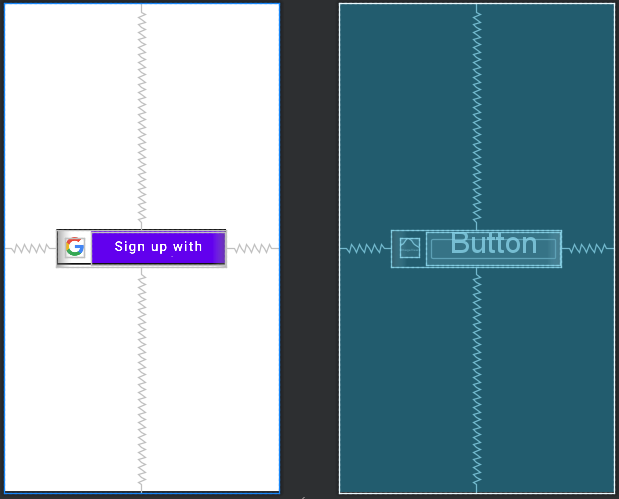
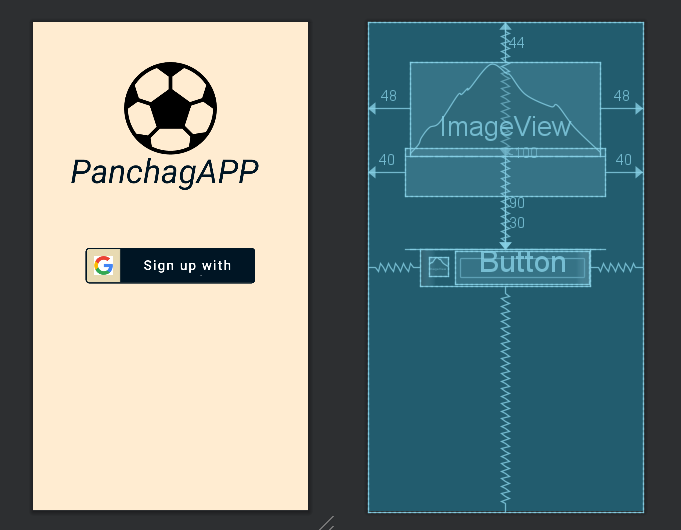
Cambiadas imagenes login e inscribir evento

diff --git a/PachangAPP/app/src/main/java/com/example/panchagapp/ui/signin/SignIn.kt b/PachangAPP/app/src/main/java/com/example/panchagapp/ui/signin/SignIn.kt
@@ -1,0 +1,12 @@
+package com.example.panchagapp.ui.signin
+
+import androidx.appcompat.app.AppCompatActivity
+import android.os.Bundle
+import com.example.panchagapp.R
+
+class SignIn : AppCompatActivity() {
+    override fun onCreate(savedInstanceState: Bundle?) {
+        super.onCreate(savedInstanceState)
+        setContentView(R.layout.activity_sign_in)
+    }
+}
